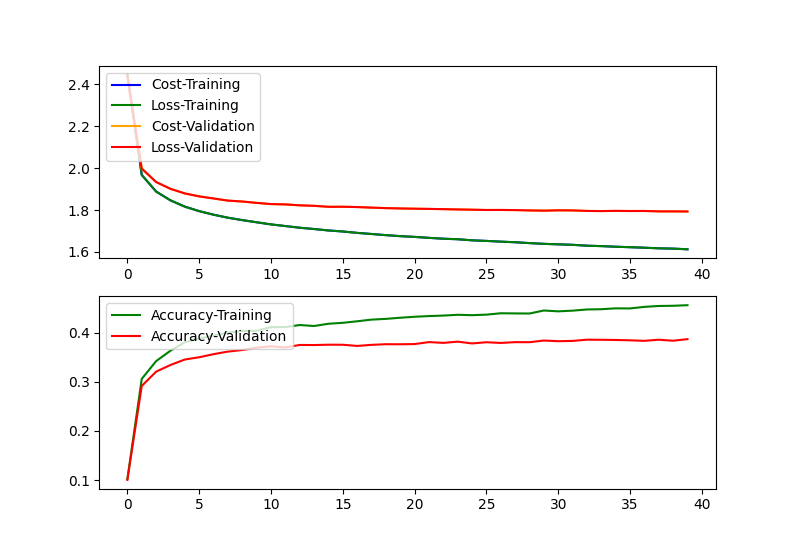
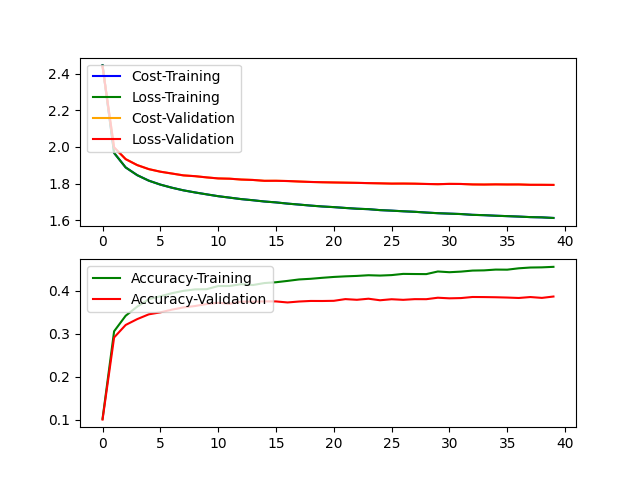
Updates Images

diff --git a/slp.py b/slp.py
@@ -19,58 +19,87 @@ TEST_FILE = 'test_batch'
 K = 10
 D = 3072
 MU = 0
-SIGMA = 0.01
-LAMBDA = 0.01
-LEARNING_RATE = 0.01
-N_BATCH = 100
-N_EPOCHS = 30
+SIGMA = 0.1
+LAMBDA = 0.001
+LEARNING_RATE = 0.001
+N_BATCH = 10
+N_EPOCHS = 40
 
 GS_LR = [0.1, 0.05, 0.01, 0.001, 0.0001]
 GS_LAMBDA = [1, 0.1, 0.01, 0.001, 0.0001]
 GS_N = [10, 100, 500, 1000, 7000]
 
+# Begin Results
 # lambda 0, eta 0.1:
-#   Epoch: 38
-#   Loss: 5.863541698629551
-#   Accuracy: 0.3688
-#   Epoch: 40
-#   Loss: 3.391550342234606
-#   Accuracy: 0.481
+# Loss: 6.0577051477229436
+# Accuracy: 0.3953
+# Epoch: 39
+# Loss: 3.391550342234606
+# Accuracy: 0.481
+# Epoch: 40
+# Val-Accuracy: 0.3078
+# Val-cost: 5.8893410426761275
+# Val-Loss: 5.8893410426761275
 
 # lambda 0, eta 0.001:
-#   Epoch: 40
-#   Loss: 1.6128101071014034
-#   Accuracy: 0.4555
+# Loss: 1.6128101071014034
+# Accuracy: 0.4555
+# Epoch: 40
+# Val-Accuracy: 0.3865
+# Val-cost: 1.7931656249766788
+# Val-Loss: 1.7931656249766788
 
 # lambda 0.1, eta 0.001:
-#   Epoch: 40
-#   Loss: 1.6462751621219471
-#   Accuracy: 0.4471
+# Loss: 1.6462751621219471
+# Accuracy: 0.4471
+# Epoch: 40
+# Val-Accuracy: 0.3899
+# Val-cost: 1.9039997115743443
+# Val-Loss: 1.788393265475793
 
 # lambda 1, eta 0.001:
-#   Epoch: 40
-#   Loss: 1.8025967352797148
-#   Accuracy: 0.3987
-
-
-# Full Data eta: 0.001, lambda = 0.1
+# Loss: 1.8025967352797148
+# Accuracy: 0.3987
 # Epoch: 40
-# Loss: 1.713559906531742
-# Accuracy: 0.4210408163265306
+# Val-Accuracy: 0.363
+# Val-cost: 1.957605193661456
+# Val-Loss: 1.8615406405774693
 
-# # Full Data, Flipping, Decay
+
+# # 10k Data, Flipping, Decay, lambda = 0.1, eta: 0.001
+# Loss: 1.7548286473870223
+# Accuracy: 0.401
 # Epoch: 40
-# Loss: 1.6837779717700256
-# Accuracy: 0.4346734693877551
+# Val-Accuracy: 0.3746
+# Val-cost: 2.0324169090766766
+# Val-Loss: 1.8218386714385626
 
 
-np.random.seed(0)
+# # Full Data, Flipping, Decay, lambda = 0.1, eta: 0.001
+# Loss: 1.7402134324803322
+# Accuracy: 0.4112448979591837
+# Epoch: 40
+# Val-Accuracy: 0.414
+# Val-cost: 1.8317811722153647
+# Val-Loss: 1.7580548574878092
 
-# From canvas page
+
+# # Full Data, Flipping, Decay, lambda = 0.1, eta: 0.001, n=10
+# Loss: 1.7245595889879064
+# Accuracy: 0.41718367346938773
+# Epoch: 40
+# Val-Accuracy: 0.408
+# Val-cost: 1.7988351304370214
+# Val-Loss: 1.7488456121821654
+# End Results
+
+# Comment in for random seed
+# np.random.seed(0)
 
 
 def montage(W):
     """ Display the image for each label in W """
+    # From canvas page
     import matplotlib.pyplot as plt
     fig, ax = plt.subplots(2, 5)
     for i in range(2):
@@ -172,9 +201,11 @@ def evaluate_classifier(X, W, b):
     return P
 
 
-def compute_cost(X, Y_one_hot, W, b, Lambda):
+def compute_cost_split(X, Y_one_hot, W, b, Lambda):
     # (X: d*n, Y:k*n ,W:K*d, b:K*1, lamda: scalar)
-    # TODO Adjust to input size
+    """
+    Computes cost/loss by dividing the data into smaller junks and building averages
+    """
     X_split = split_matrix(X)
     Y_split = split_matrix(Y_one_hot)
     costs = []
@@ -191,7 +222,10 @@ def compute_cost(X, Y_one_hot, W, b, Lambda):
     return np.mean(J)
 
 
-def compute_cost_validation(X, Y_one_hot, W, b, Lambda):
+def compute_cost_no_split(X, Y_one_hot, W, b, Lambda):
+    """
+    Computes cost/loss on whole data sets
+    """
     # (X: d*n, Y:k*n ,W:K*d, b:K*1, lamda: scalar)
     D = X.shape[1]
     P = evaluate_classifier(X, W, b)
@@ -203,6 +237,8 @@ def compute_cost_validation(X, Y_one_hot, W, b, Lambda):
 
 
 def split_matrix(matrix):
+    """Used to solve the problem that local device runs out of memory when trained with to much data
+    """
     m1 = matrix[:, :10000]
     m2 = matrix[:, 10001:20000]
     m3 = matrix[:, 20001:30000]
@@ -228,43 +264,94 @@ def compute_gradients(X, Y, P, W, Lambda):
     G_b = 1/n * np.matmul(G_batch, ones_b)
     return G_W, G_b
 
-# From canvas page
 
-
-def ComputeGradsNum(X, Y, P, W, b, lamda, h):
+def ComputeGradsNumSlow(X, Y, P, W, b, lamda, h):
     """ Converted from matlab code """
+    # From canvas page
     no = W.shape[0]
     d = X.shape[0]
 
     grad_W = np.zeros(W.shape)
     grad_b = np.zeros((no, 1))
 
-    c = compute_cost(X, Y, W, b, lamda)
+    for i in range(len(b)):
+        b_try = np.array(b)
+        b_try[i] -= h
+        c1 = compute_cost_no_split(X, Y, W, b_try, lamda)
+
+        b_try = np.array(b)
+        b_try[i] += h
+        c2 = compute_cost_no_split(X, Y, W, b_try, lamda)
+
+        grad_b[i] = (c2-c1) / (2*h)
+
+    for i in range(W.shape[0]):
+        for j in range(W.shape[1]):
+            W_try = np.array(W)
+            W_try[i, j] -= h
+            c1 = compute_cost_no_split(X, Y, W_try, b, lamda)
+
+            W_try = np.array(W)
+            W_try[i, j] += h
+            c2 = compute_cost_no_split(X, Y, W_try, b, lamda)
+
+            grad_W[i, j] = (c2-c1) / (2*h)
+
+    return [grad_W, grad_b]
+
+
+def ComputeGradsNum(X, Y, P, W, b, lamda, h):
+    """ Converted from matlab code """
+    # From Canvas page
+    no = W.shape[0]
+    d = X.shape[0]
+
+    grad_W = np.zeros(W.shape)
+    grad_b = np.zeros((no, 1))
+    print(X.shape)
+
+    c = compute_cost_no_split(X, Y, W, b, lamda)
 
     for i in range(len(b)):
         b_try = np.array(b)
         b_try[i] += h
-        c2 = compute_cost(X, Y, W, b_try, lamda)
+        c2 = compute_cost_no_split(X, Y, W, b_try, lamda)
         grad_b[i] = (c2-c) / h
 
     for i in range(W.shape[0]):
         for j in range(W.shape[1]):
             W_try = np.array(W)
             W_try[i, j] += h
-            c2 = compute_cost(X, Y, W_try, b, lamda)
+            c2 = compute_cost_no_split(X, Y, W_try, b, lamda)
             grad_W[i, j] = (c2-c) / h
 
     return grad_W, grad_b
 
 
-def check_gradients(X, Y, P, W, b, Lambda, h):
+def check_gradients(X, Y, Lambda):
+    W = init_weights(MU, SIGMA)
+    b = init_bias(MU, SIGMA)
+
+    print('[Note] Computing mean and std..')
+    mean_training = compute_mean(X)
+    std_training = compute_std(X)
+
+    # normalize training, validation, and test data with mean and std from train-set
+    print('[Note] Normalizing data..')
+    X = normalize(X, mean_training, std_training)
+
+    P = evaluate_classifier(X, W, b)
     # analytical gradients
+    # ana_w, ana_b = compute_gradients(
+    #     X[:, 0:20], Y[:, 0:20], P[:, 0:20], W, Lambda)
     ana_w, ana_b = compute_gradients(
-        X[:, 1:20], Y[:, 1:20], P[:, 1:20], W, Lambda)
+        X[:, 0:100], Y[:, 0:100], P[:, 0:100], W, Lambda)
 
     # numerical gradients
-    num_w, num_b = ComputeGradsNum(
-        X[:, 1:20], Y[:, 1:20], P[:, 1:20], W, b, Lambda, 0.000001)
+    # num_w, num_b = ComputeGradsNum(
+    #     X[:, 0:20], Y[:, 0:20], P[:, 0:20], W, b, Lambda, 0.000001)
+    num_w, num_b = ComputeGradsNumSlow(
+        X[:, 0:100], Y[:, 0:100], P[:, 0:100], W, b, Lambda, 0.000001)
 
     # relative error
     w_rel_error = np.absolute(
@@ -310,9 +397,11 @@ def mini_batch_gd(X, Y, y, n_batch, eta, n_epochs, W, b, Lambda, grid_search):
         # Compute loss
         if(not grid_search):
             print('[Note] Computing Cost..')
-            cost = compute_cost(X, Y, W, b, Lambda)
+            cost = compute_cost_split(X, Y, W, b, Lambda)
+            # cost = compute_cost_no_split(X, Y, W, b, Lambda)
             print('[Note] Computing Loss..')
-            loss = compute_cost(X, Y, W, b, 0)
+            loss = compute_cost_split(X, Y, W, b, 0)
+            # loss = compute_cost_no_split(X, Y, W, b, 0)
             print('[Note] Computing Acc..')
             accuracy = compute_accuracy(X, y, W, b)
             cost_list.append(cost)
@@ -342,9 +431,9 @@ def mini_batch_gd(X, Y, y, n_batch, eta, n_epochs, W, b, Lambda, grid_search):
             b = b-eta*b_grad
     if(grid_search):
         print('[Note] Computing Cost..')
-        cost = compute_cost(X, Y, W, b, Lambda)
+        cost = compute_cost_split(X, Y, W, b, Lambda)
         print('[Note] Computing Loss..')
-        loss = compute_cost(X, Y, W, b, 0)
+        loss = compute_cost_split(X, Y, W, b, 0)
         print('[Note] Computing Acc..')
         accuracy = compute_accuracy(X, y, W, b)
         cost_list.append(cost)
@@ -379,15 +468,18 @@ def plot_overview(W_list, b_list, accuracy_list, loss_list, cost_list,
     val_costs = []
     val_accs = []
     for epoch in range(len(W_list)):
-        current_loss = compute_cost_validation(
+        current_loss = compute_cost_no_split(
             X_norm_validation, Y_validation, W_list[epoch], b_list[epoch], 0)
-        current_cost = compute_cost_validation(
+        current_cost = compute_cost_no_split(
             X_norm_validation, Y_validation, W_list[epoch], b_list[epoch], lamda)
         current_accuracy = compute_accuracy(
             X_norm_validation, y_validation, W_list[epoch], b_list[epoch])
         val_losses.append(current_loss)
         val_costs.append(current_cost)
         val_accs.append(current_accuracy)
+    print("Val-Accuracy:", val_accs[-1])
+    print("Val-cost:", val_costs[-1])
+    print("Val-Loss:", val_losses[-1])
     figure, axis = plt.subplots(2)
     axis[0].plot(cost_list, label="Cost-Training", color='blue')
     axis[0].plot(loss_list, label="Loss-Training", color='green')
@@ -430,7 +522,7 @@ def execute_gds(eta, lamda, n, X_training, Y_training, y_training, X_validation,
                       X_norm_validation, Y_validation, y_validation, lamda)
         montage(W_list[-1])
     else:
-        loss_validation = compute_cost_validation(
+        loss_validation = compute_cost_no_split(
             X_norm_validation, Y_validation, W_list[-1], b_list[-1], 0)
         accuracy_validation = compute_accuracy(
             X_norm_validation, y_validation, W_list[-1], b_list[-1])
@@ -440,7 +532,6 @@ def execute_gds(eta, lamda, n, X_training, Y_training, y_training, X_validation,
 
 def turn_images_fifty_percent(X):
     n = X.shape[1]
-
     # computed indexes to swap
     aa = np.array(list(range(32)))
     bb = np.array(list(range(31, -1, -1)))[np.newaxis]
@@ -501,7 +592,8 @@ def handle_gridsearch_results(filename):
     print(arr)
 
 
-# GS Results:
+# Grid Search Results:
+# [eta, lamda, n, tr_loss, tr_acc, val_loss, val_acc]
 # Highest Val Acc:
 # [['0.001' '0.0001' '10' '1.665' '0.440' '1.715' '0.42']
 #  ['0.01' '0.01' '100' '1.662' '0.438' '1.711' '0.42']
@@ -527,15 +619,16 @@ def handle_gridsearch_results(filename):
 #  ['0.0001' '0.001' '7000' '2.310' '0.143' '2.322' '0.125']
 #  ['0.0001' '1.0' '7000' '2.329' '0.132' '2.333' '0.134']]
 
+
 # BEGIN: read in and split data
-# EXERCISE 1:
-# # load training, validation, and test data
+# # Comment in for EXERCISE 1:
+# # # load training, validation, and test data
 # X_training, Y_training, y_training = load_batch(TRAINING_FILE)
 # X_validation, Y_validation, y_validation = load_batch(VALIDATION_FILE)
 # X_test, Y_test, y_test = load_batch(TEST_FILE)
 
 
-# EXERCISE 2:
+# Comment in for EXERCISE 2:
 print('[Note] Loading data..')
 X, Y, y = load_all_batches(FILE_NAMES)
 print('[Note] Seperating data..')
@@ -545,21 +638,29 @@ y_training = y[0:-1000]
 X_validation = X[:, -1000:]
 Y_validation = Y[:, -1000:]
 y_validation = y[-1000:]
+
 # END: read in and split data
 
-# print(X.shape)
-# print(X[:, 0:10].shape)
-# # show example images
+# Comment in to check for gradients
+# check_gradients(X, Y, 0.01)
+
+# Comment in to for image visualization
 # montage(np.transpose(X))
-# execute_gds(eta, lamda, n,X_training, Y_training, y_training,
-#             X_validation, Y_validation, y_validation)
+
+# Execute gradient decent
+execute_gds(LEARNING_RATE, LAMBDA, N_BATCH, X_training, Y_training, y_training,
+            X_validation, Y_validation, y_validation)
 
 
+# Comment in for grid search
 # grid_search(GS_LR, GS_LAMBDA, GS_N, X_training, Y_training, y_training,
 #             X_validation, Y_validation, y_validation)
 
 
-handle_gridsearch_results('results_gridsearch.txt')
+# Comment in to load grid search results from text file
+# handle_gridsearch_results('results_gridsearch.txt')
+
+# Comment in to visualize flipped images
 # montage(np.transpose(X))
 # turned = turn_images_fifty_percent(X)
 # montage(np.transpose(turned))
